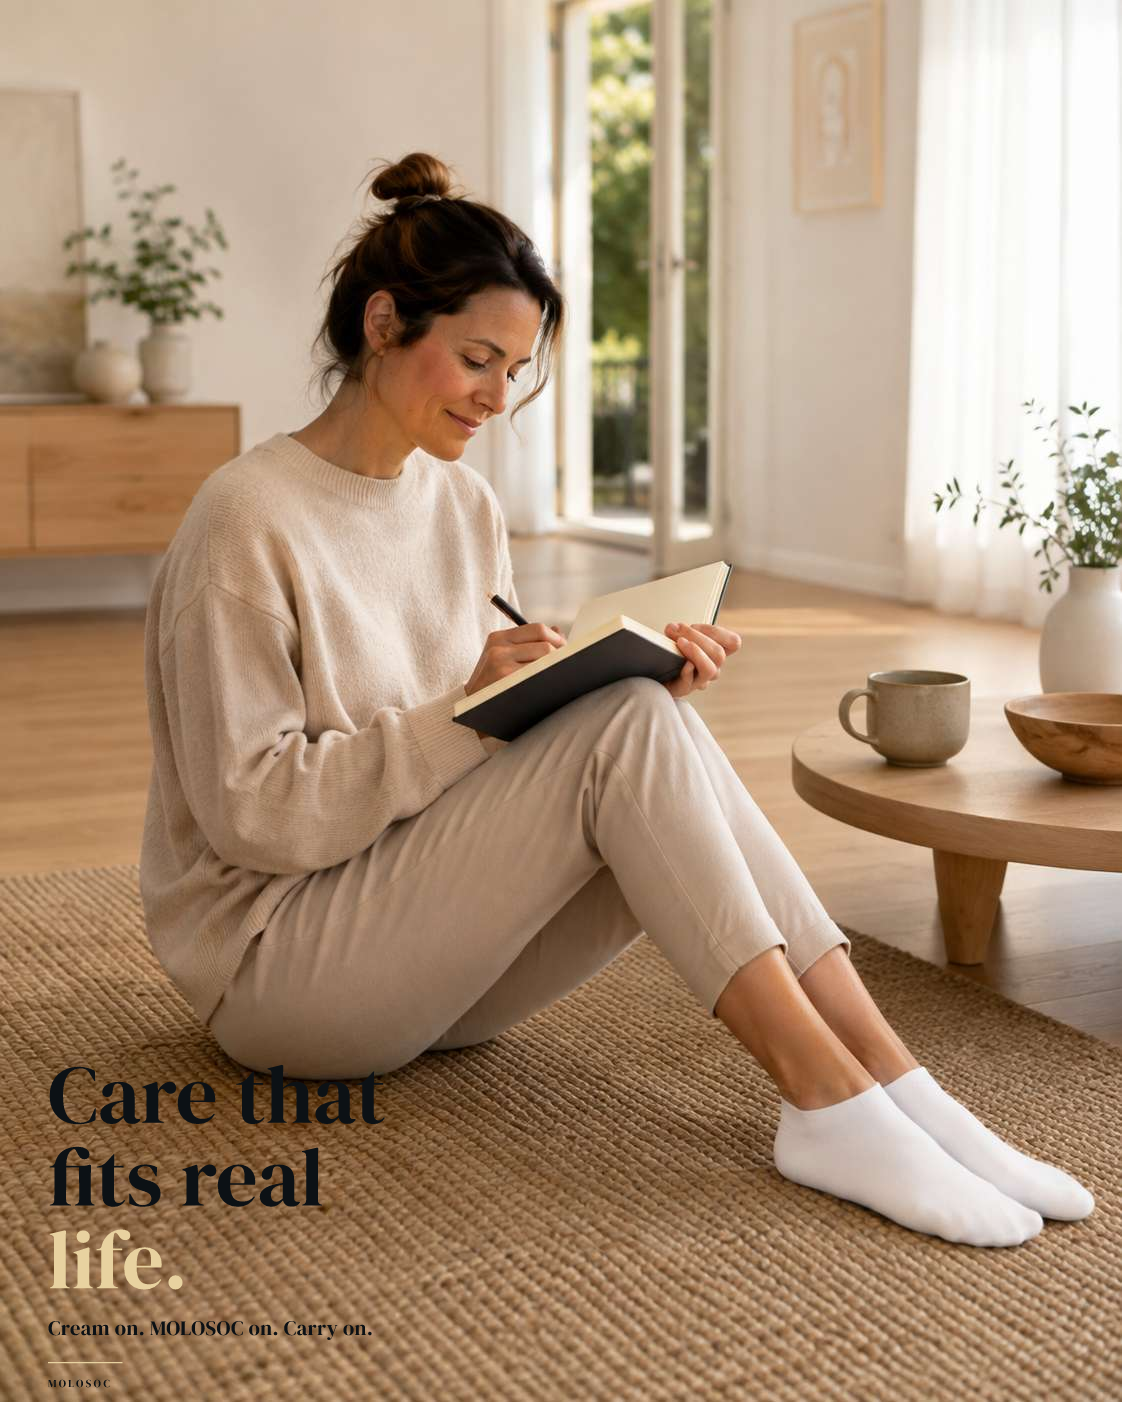
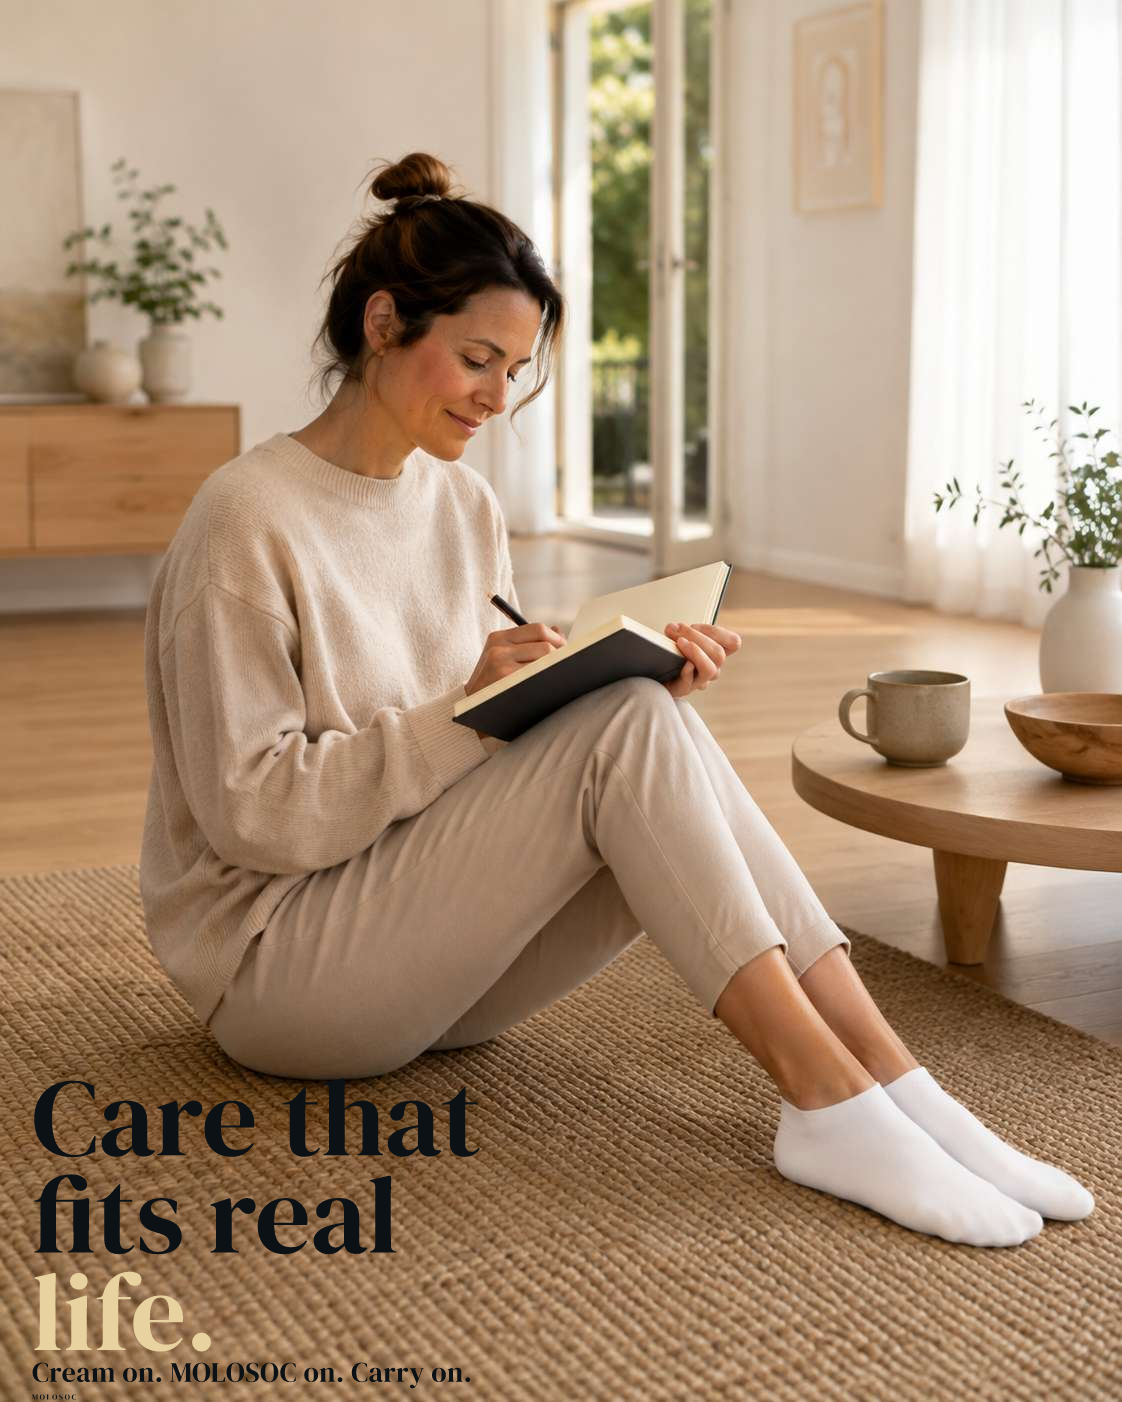
Replace shrink-to-fit with fixed headline size + fail-fast guards
Root cause of the headline reading too small on mobile: the previous
buildSvg.mjs always shrank font size to fit the safe-zone box (width
pass, then height pass), so no matter how large a size config asked for,
a tight box silently won. Removes that mechanism entirely for text
sizing:

- headline/supporting/wordmark sizes are now fixed from
  config (fontSizeFrac * canvasWidth) — never auto-scaled down.
- Two fail-fast guards replace the old shrink: template.guards checks the
  headline block against a minimum (430x285px here), and a separate
  overflow check throws if the full lockup would exceed its configured
  safe-zone box (the "don't cover the woman/product" protection the
  shrink used to provide as a side effect). Both throw with a specific
  message instead of silently resizing anything.
- Dropped the divider rule from the brand mark — with the headline this
  large there wasn't vertical room for it and "keep branding minimal" no
  longer asked for it; the small MOLOSOC wordmark remains.

Re-verified the safe zone against the actual photo (an earlier debug grid
had a mislabeled axis that nearly led to a wrong boundary): the hip/pants
curve's true lowest point is ~y=1060, confirmed by drawing measurement
lines directly on the master and inspecting the crop.

MOL_POST_001_EN config: headline.fontSizeFrac -> 110px (was 82.7px),
lineHeightFactor 0.885 (tight editorial), supporting.fontSizeFrac -> 28px,
[…]

Changed region(s): [[0.0312, 0.7668, 0.4367, 1.0], [0.2807, 0.9508, 0.3743, 1.0]]

diff --git a/assets/social/README.md b/assets/social/README.md
@@ -33,9 +33,14 @@ enforced, not just promised.
    Copy and layout never touch `src/*.mjs` — a new post is a new JSON entry.
 4. `src/textMetrics.mjs` measures real glyph advances (via `fontkit`, reading
    the actual font files) so line widths are exact, not estimated.
-5. `src/buildSvg.mjs` lays the headline + supporting line out inside the
-   post's safe-zone box, shrinking font size first to fit the box width, then
-   further to fit the box height, and emits a transparent-background SVG.
+5. `src/buildSvg.mjs` lays the headline + supporting line + wordmark out
+   inside the post's safe-zone box at their **configured sizes — fixed, not
+   auto-shrunk**. It only measures (via real glyph metrics) to validate: the
+   headline block must clear `template.guards.minHeadlineBlockWidth/Height`,
+   and the full lockup must not exceed the safe-zone box. Either failing
+   throws instead of silently shrinking the type — a too-small safe zone or
+   too-long copy is a config bug to fix, not something to paper over by
+   quietly rendering a smaller headline than the brief calls for.
 6. `src/render.mjs` rasterizes that SVG with `@resvg/resvg-js` (a
    deterministic Rust SVG renderer, not a browser) and composites it over the
    untouched master with `sharp`. Compositing only writes pixels where the
